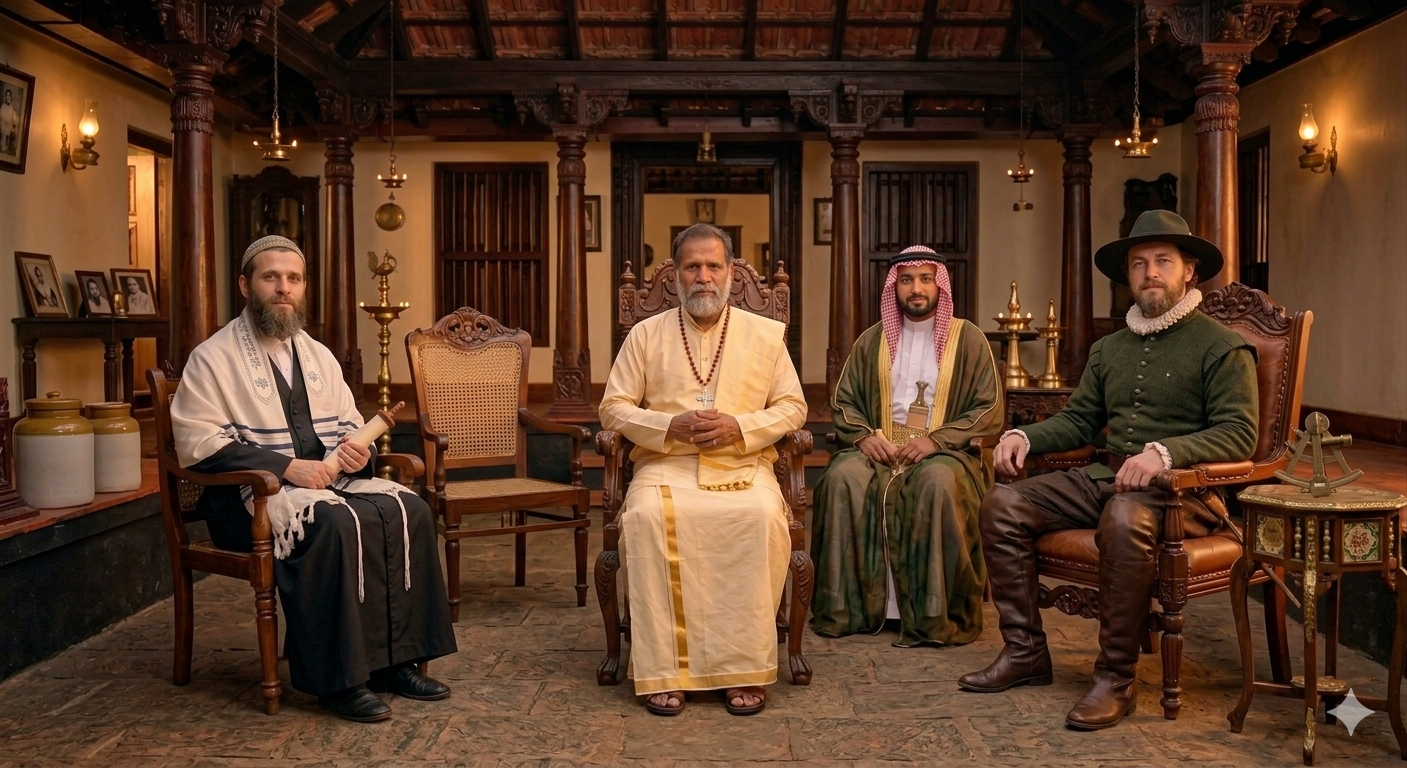
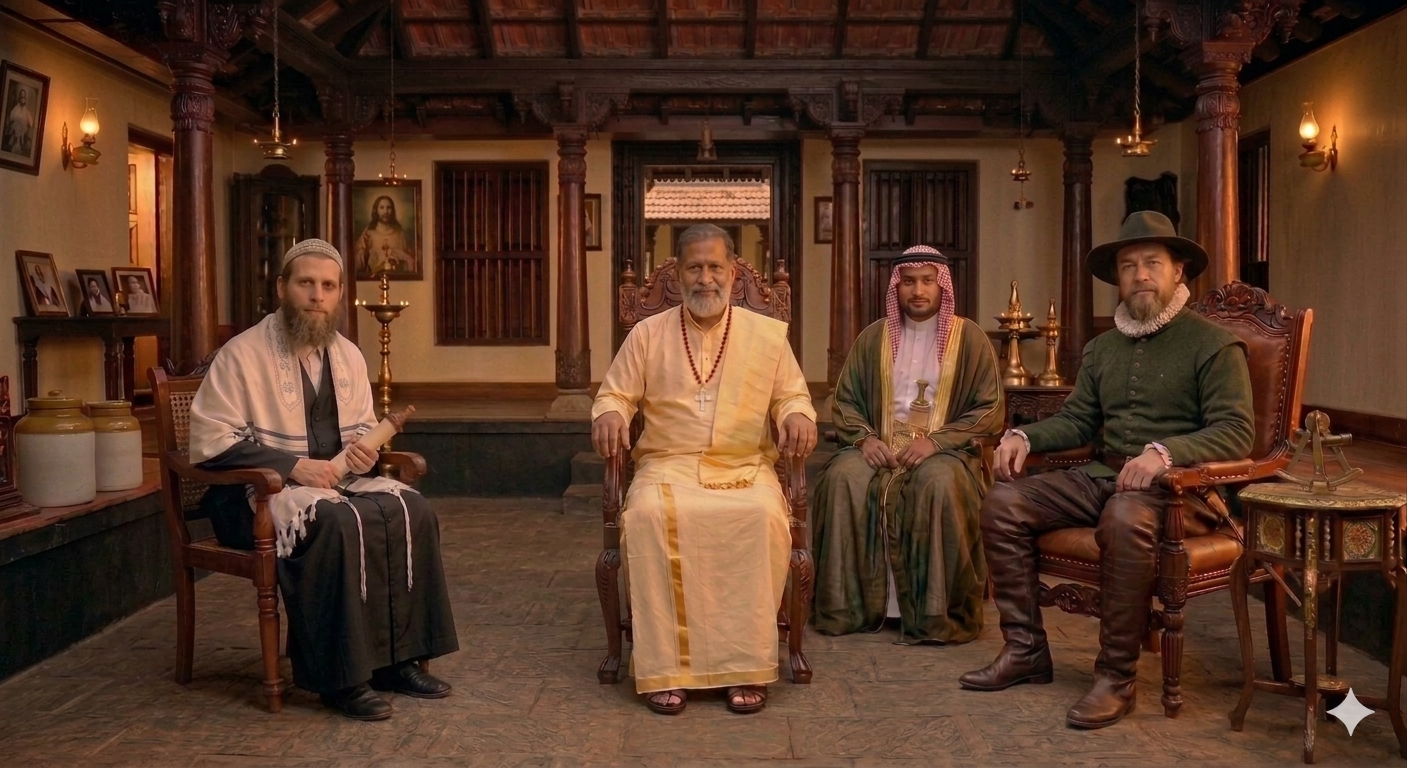
home: add merchant image to story section, rebalance left/right columns
Adds the Kerala Spices Trading Co. merchant image to the homepage "Part I ·
The Name" section, with the timeline and tag chips beneath it on the left.
The eyebrow, heading, lede, and paragraphs now sit together on the right so
column heights balance.

Also refreshes the two about-page images (Nazrani family, Malabar merchants)
with higher-resolution versions.

diff --git a/index.html b/index.html
@@ -80,14 +80,18 @@
   // -------- STORY (short teaser; full story lives on about.html) ----------
   document.getElementById('story-grid').innerHTML = `
     <div>
-      <div class="eyebrow">${esc(C.story.eyebrow)}</div>
-      <h2 id="story-title">${esc(C.story.titleA)}<span class="serif-i">${esc(C.story.titleB)}</span></h2>
-      <div class="timeline"><div class="t">${esc(C.story.timeline)}</div></div>
+      <figure style="margin:0;">
+        <img src="assets/images/home-spice-merchant.jpg?v=1" alt="A Nazrani spice merchant at his desk with brass scales, ledger, and sacks of pepper and cardamom at Kerala Spices Trading Co." loading="lazy" style="width:100%;height:auto;display:block;border:1px solid var(--rule);"/>
+        <figcaption style="font-family:var(--mono);font-size:10px;letter-spacing:0.14em;color:var(--ink-muted);text-transform:uppercase;margin-top:10px;">Brass scales, an open ledger · the merchant's desk</figcaption>
+      </figure>
+      <div class="timeline" style="margin-top:32px;"><div class="t">${esc(C.story.timeline)}</div></div>
       <div class="tags">
         ${C.story.tags.map(t => `<span class="tag tag-${t.tone}">${esc(t.label)}</span>`).join('')}
       </div>
     </div>
     <div class="col-r">
+      <div class="eyebrow">${esc(C.story.eyebrow)}</div>
+      <h2 id="story-title">${esc(C.story.titleA)}<span class="serif-i">${esc(C.story.titleB)}</span></h2>
       <p class="lede">${C.story.lede}</p>
       ${C.story.paragraphs.map(p => '<p>' + esc(p) + '</p>').join('')}
       <a href="about.html" class="more">Read our full story →</a>